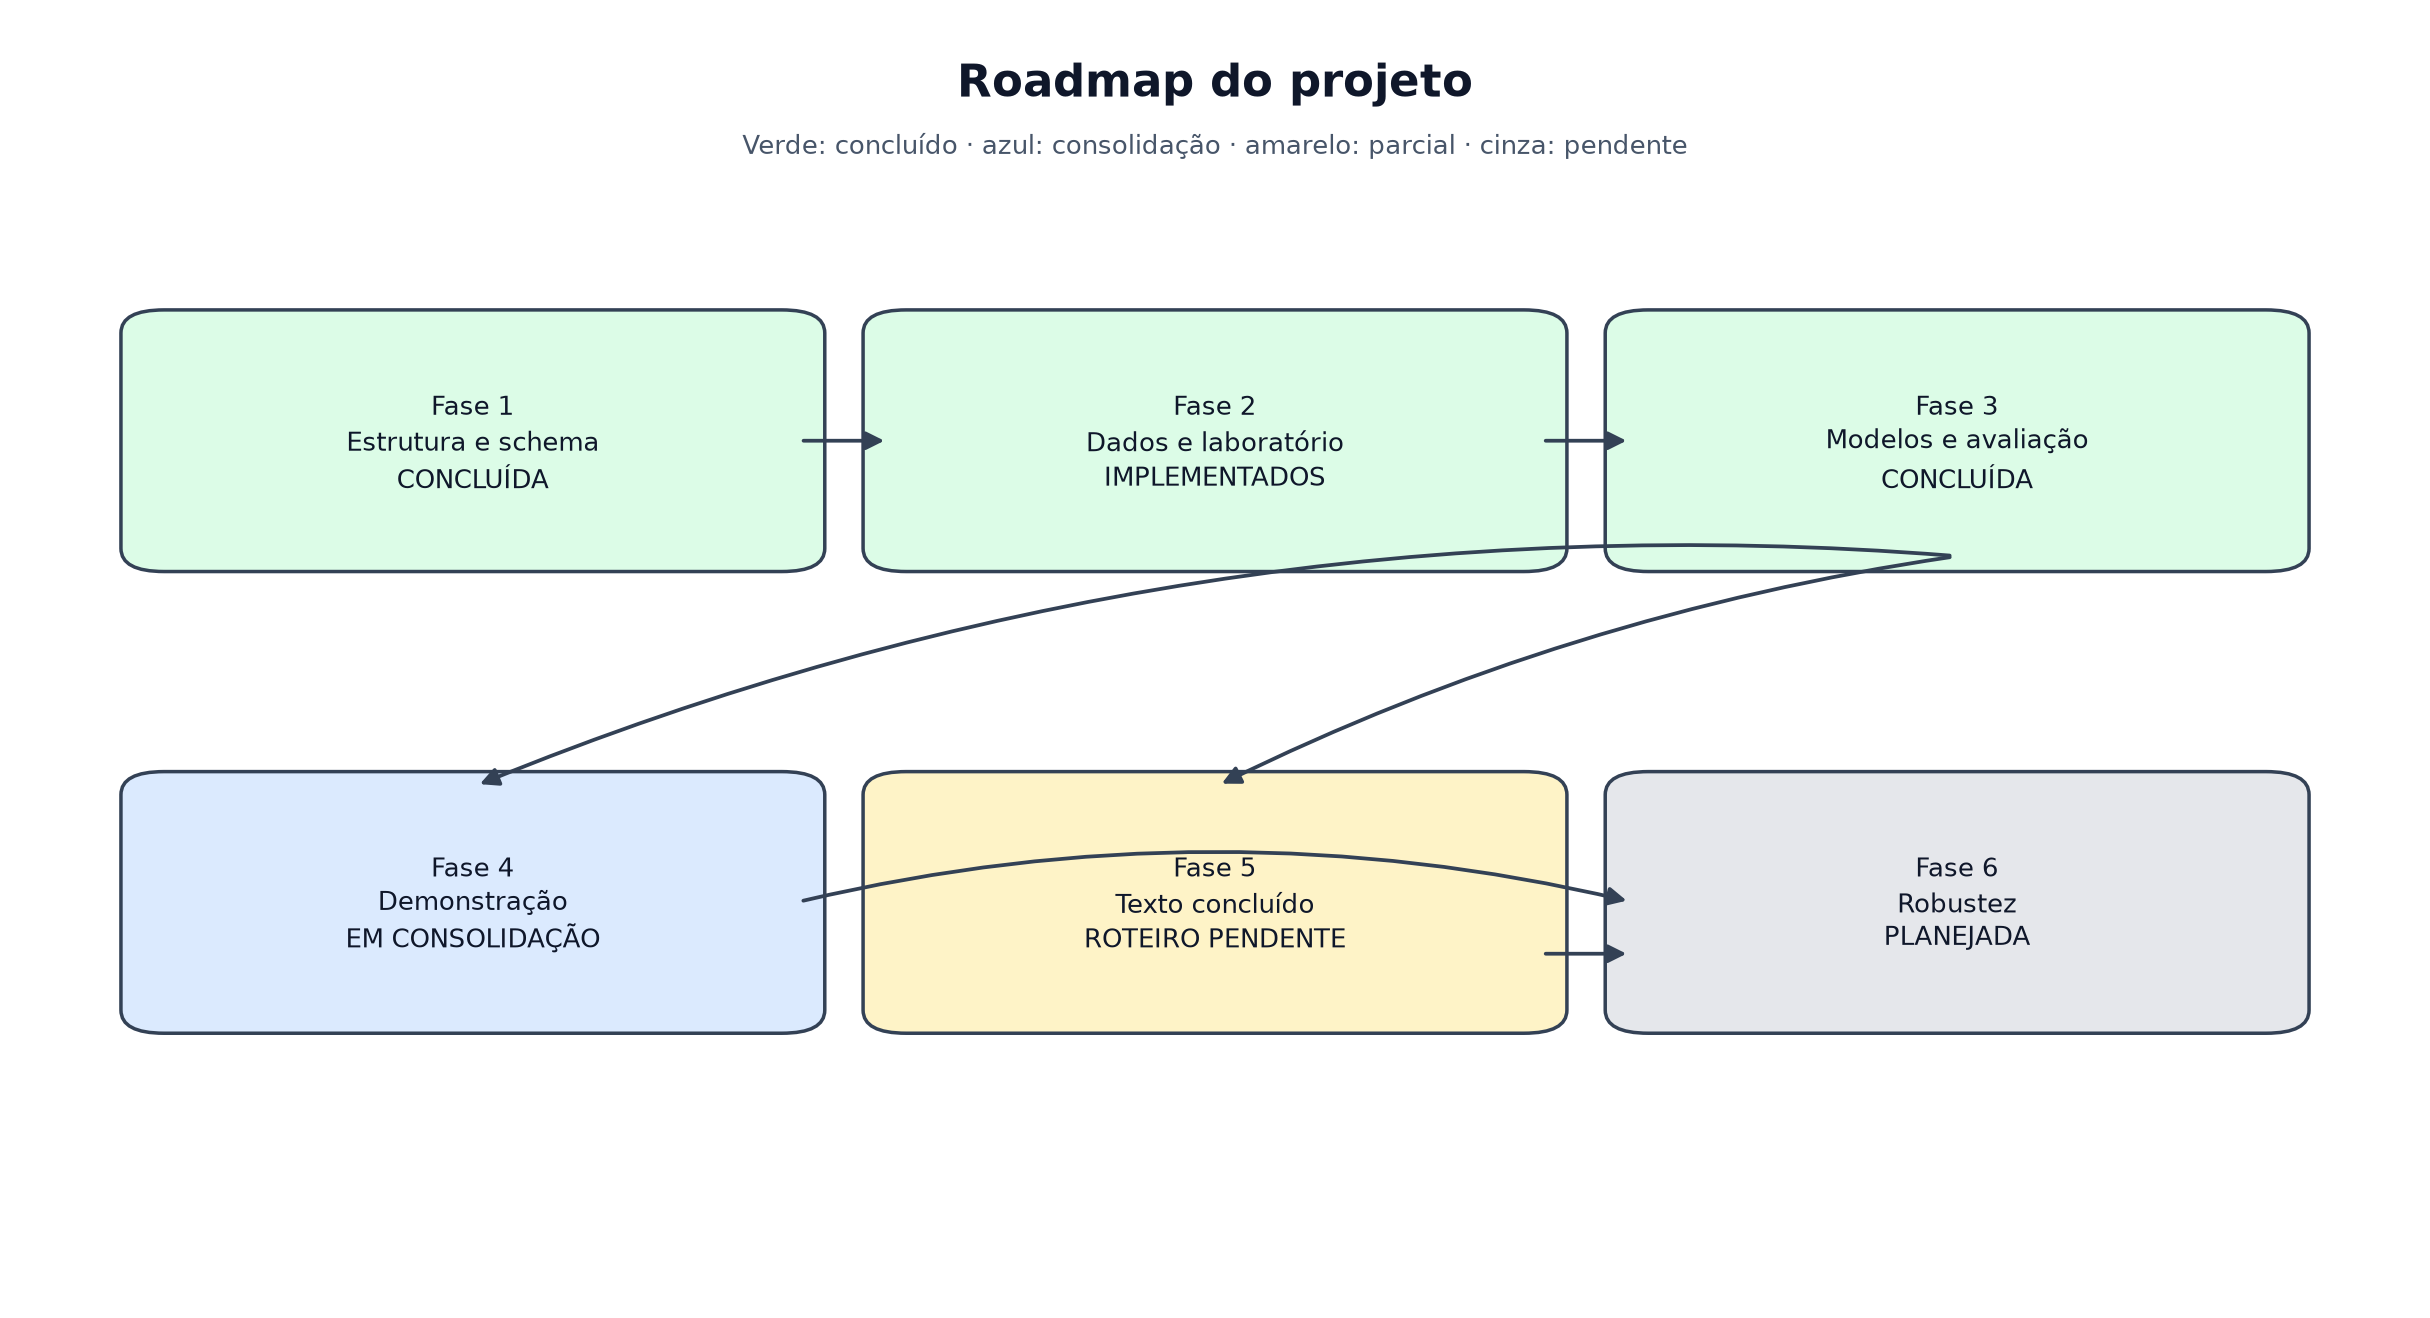
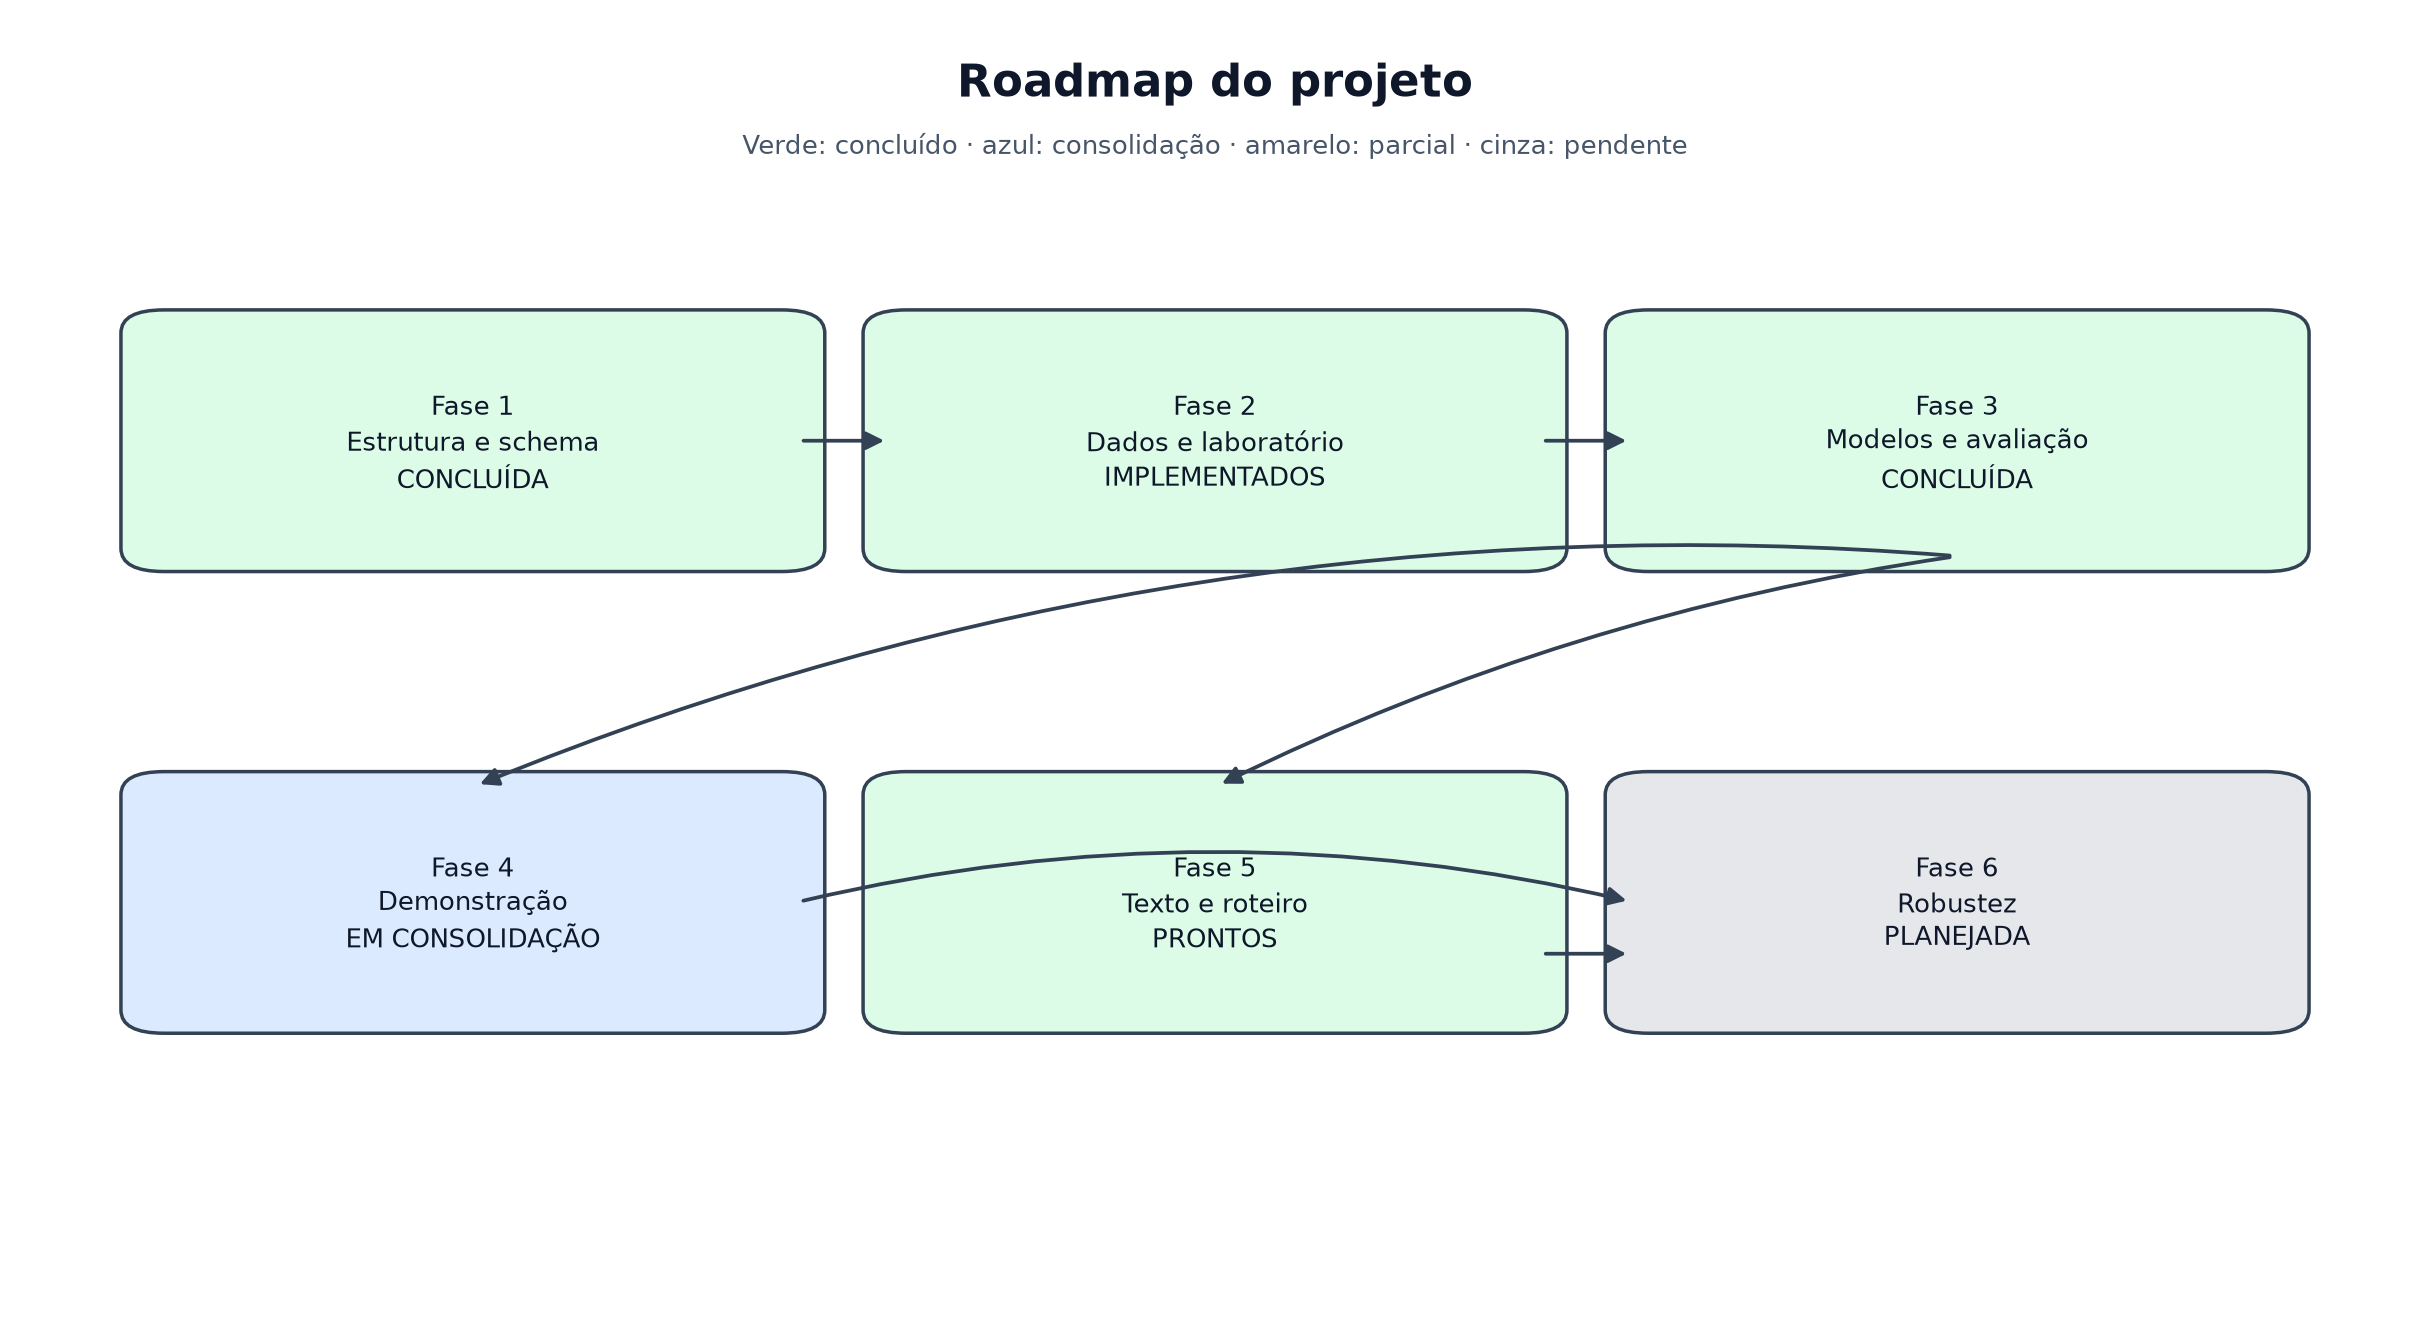
docs: marcar roteiro e controle do sufixo no roadmap e na figura de fases
- roadmap: roteiro e figuras feitos, resultado do controle do sufixo e novo
  item para gerar anomalias sob sufixos de aparencia normal
- doc_figures: Fase 5 passa a "Texto e roteiro PRONTOS"

Changed region(s): [[0.3395, 0.5599, 0.6481, 0.8088]]

diff --git a/source/doc_figures.py b/source/doc_figures.py
@@ -241,14 +241,14 @@ def roadmap_figure() -> tuple[Figure, Axes]:
     ]
     bottom = [
         "Fase 4\nDemonstração\nEM CONSOLIDAÇÃO",
-        "Fase 5\nTexto concluído\nROTEIRO PENDENTE",
+        "Fase 5\nTexto e roteiro\nPRONTOS",
         "Fase 6\nRobustez\nPLANEJADA",
     ]
     for index, label in enumerate(top):
         box(axis, positions[index], 0.58, 0.27, 0.18, label, "green", 10.5)
         if index:
             arrow(axis, (positions[index - 1] + 0.27, 0.67), (positions[index], 0.67))
-    colors = ["blue", "yellow", "gray"]
+    colors = ["blue", "green", "gray"]
     for index, label in enumerate(bottom):
         box(axis, positions[index], 0.22, 0.27, 0.18, label, colors[index], 10.5)
     arrow(axis, (positions[2] + 0.135, 0.58), (positions[0] + 0.135, 0.40), rad=0.12)

diff --git a/roadmap.md b/roadmap.md
@@ -18,8 +18,8 @@ A consolidação do laboratório, dos modelos, da avaliação e da documentaçã
 mergeada na branch `master` pela PR #1 (08/11/2026). O texto da disciplina está
 consolidado no [README](README.md), com introdução, técnicas, resultados, análise
 crítica e conclusões — as cinco partes do escopo escrito. Esse texto ainda está
-na branch `docs/atualizar-readme-roadmap` (7 commits à frente da `master` em
-24/11/2026), e a entrega é lida na `master`.
+na branch `docs/atualizar-readme-roadmap`, não mergeada, e a entrega é lida na
+`master`.
 
 ![Fases do projeto](doc/figures/roadmap.png)
 
@@ -117,6 +117,21 @@ e ainda não foi feita.
       anomalias mais difíceis (curtas, baseadas em palavras, a taxa baixa) e
       prevalência de suspeitas mais realista (hoje 50% no dataset e 77,6% no
       teste). Sem isso o CharAE chega a ROC-AUC 1 e os modelos não se separam.
+- [x] Controlar o atalho do sufixo `.tunnel` (`python -m source.suffix_control`;
+      resultado em `results/evaluation/suffix_control.csv`). No dataset, 100%
+      das 4.977 linhas suspeitas terminam em `.tunnel` e nenhuma das 4.934
+      linhas normais contém `tunnel` (`docker/generator/gerador_queries.py:300-303`).
+      Medido no teste, com o P99 de cada checkpoint: o sufixo **não é
+      necessário** (trocar `.tunnel` por sufixos de aparência normal mantém o
+      recall do CharAE e do híbrido em 1,0000 nas cinco famílias; o do DenseAE
+      cai de 0,5592 para 0,4644), mas é **suficiente** (acrescentar `.tunnel`
+      aos 440 domínios normais do teste leva o FPR do CharAE de 0,0000 para
+      0,8341 e o do híbrido de 0,0159 para 0,4773). O detector reage ao
+      payload, mas também a qualquer trecho nunca visto no treino, o que
+      combina com os falsos positivos de hash de CDN.
+- [ ] Gerar as anomalias do dataset novo sob zonas e sufixos de aparência
+      normal, em vez de sempre `.tunnel`, e incluir normais com palavras raras,
+      para que o FPR não dependa de o trecho já ter sido visto.
 - [ ] Corrigir a família `low_entropy` do gerador: ela produz só **8 domínios
       únicos** em 989 linhas (`"safe" * n` truncado, combinado com 8 serviços
       em `docker/generator/gerador_queries.py:283-301`), cerca de 120
@@ -290,8 +305,9 @@ determinístico e reproduzível.
 ## Fase 5 — Relatório e apresentação
 
 Status: **texto concluído** no README (introdução, técnicas, resultados,
-análise crítica e conclusões); falta o roteiro cronometrado e a lista de
-figuras.
+análise crítica e conclusões) e roteiro cronometrado com lista de figuras em
+[doc/roteiro-apresentacao.md](doc/roteiro-apresentacao.md); faltam as capturas
+do plano B e um ensaio com cronômetro.
 
 - [x] Organizar o README com Introdução, Desenvolvimento/Técnicas, Resultados,
       Reprodução, Segurança/Ética e Referências.
@@ -302,10 +318,13 @@ figuras.
       pipeline, arquiteturas, treino, roadmap e demonstração/adaptação.
 - [x] Manter `source/doc_figures.py` para regenerar as figuras em
       `doc/figures/` sem serviço externo de renderização.
-- [ ] Criar `doc/roteiro-apresentacao.md` para 10 minutos:
+- [x] Criar `doc/roteiro-apresentacao.md` para 10 minutos:
       introdução 1,5; pipeline 2; modelos 2; resultados 3; demo 1,5 (pelo
       Space).
-- [ ] Listar as figuras necessárias para a apresentação.
+- [x] Listar as figuras necessárias para a apresentação (tabela no roteiro; as
+      imagens não foram revisadas visualmente).
+- [ ] Tirar as capturas de tela do Space para o plano B e ensaiar a fala com
+      cronômetro.
 - [x] Atualizar referências apenas para fontes realmente utilizadas.
 - [x] Versionar os resultados gráficos dos treinamentos lexical, semântico e
       híbrido produzidos localmente.
@@ -363,6 +382,10 @@ dizer (uma seed, um split, avaliação no teto):
 - No P99, o CharAE tem FPR 0,0000, contra 0,0093 do híbrido (λ=1) e 0,0187
   com λ=0. Isso não indica ganho do treino conjunto, mas é uma seed.
 - Com ROC-AUC 1 nos dois, o teste não separa CharAE e híbrido (efeito de teto).
+- Ao acrescentar `.tunnel` a normais do teste (`results/evaluation/suffix_control.csv`),
+  o FPR do híbrido (0,4773) fica abaixo do do CharAE (0,8341). Os limiares são
+  calibrados em escalas diferentes (4,41 e 3,14), então não dá para atribuir
+  isso ao ramo numérico sem um controle.
 
 Para testar de verdade:
 
@@ -384,7 +407,7 @@ Para testar de verdade:
       poucos minutos com o dataset versionado (100 épocas do híbrido: 121 s).
 - [x] `python -m source.evaluate` roda em CPU no dataset mínimo e no dataset
       versionado.
-- [x] `pytest` passa (268 testes em 24/11/2026).
+- [x] `pytest` passa (271 testes em 24/11/2026).
 - [x] Nenhuma feature usa `label`, `family`, `query_type`, `seed`, IP ou
       cliente.
 - [x] O README não contém métricas inventadas (as tabelas de resultados foram
@@ -401,7 +424,7 @@ Para testar de verdade:
    `requirements.txt` (feito) e publicar e verificar o Space (pacote verificado
    localmente; falta publicar).
 2. Escrever `doc/roteiro-apresentacao.md` com os tempos de 10 minutos e a
-   lista de figuras.
+   lista de figuras (feito; faltam as capturas do plano B e o ensaio).
 3. Regenerar um dataset mais variado, retreinar e reavaliar em commits
    separados. Se não couber até 15/12, documentar a limitação e manter os
    números atuais, já conferidos.
